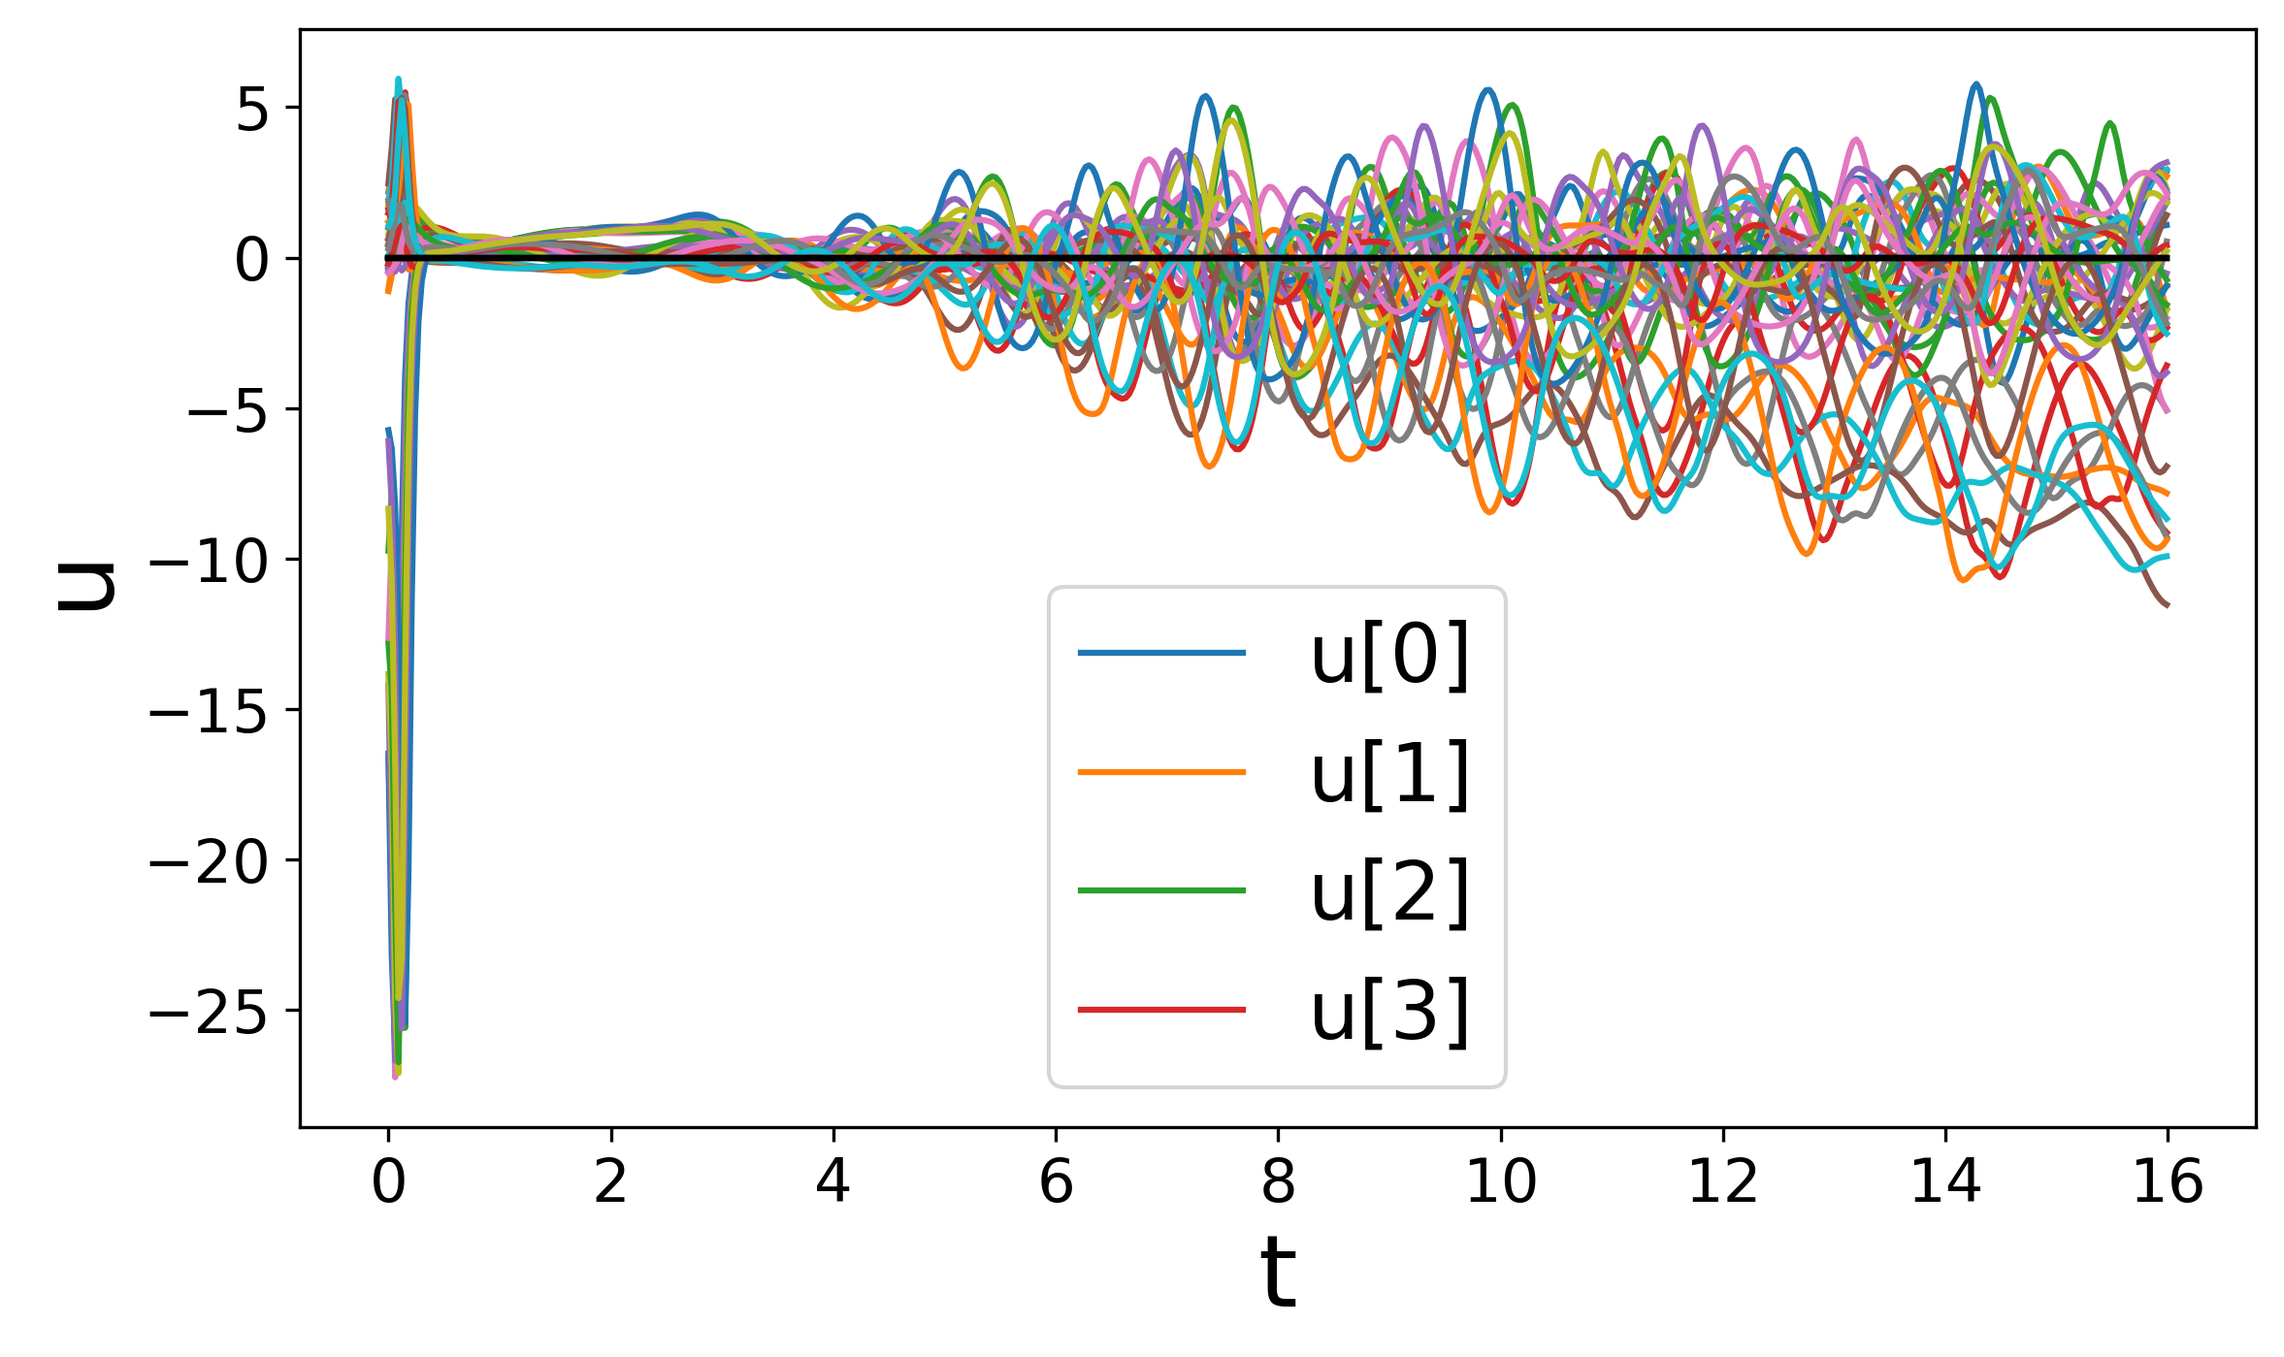
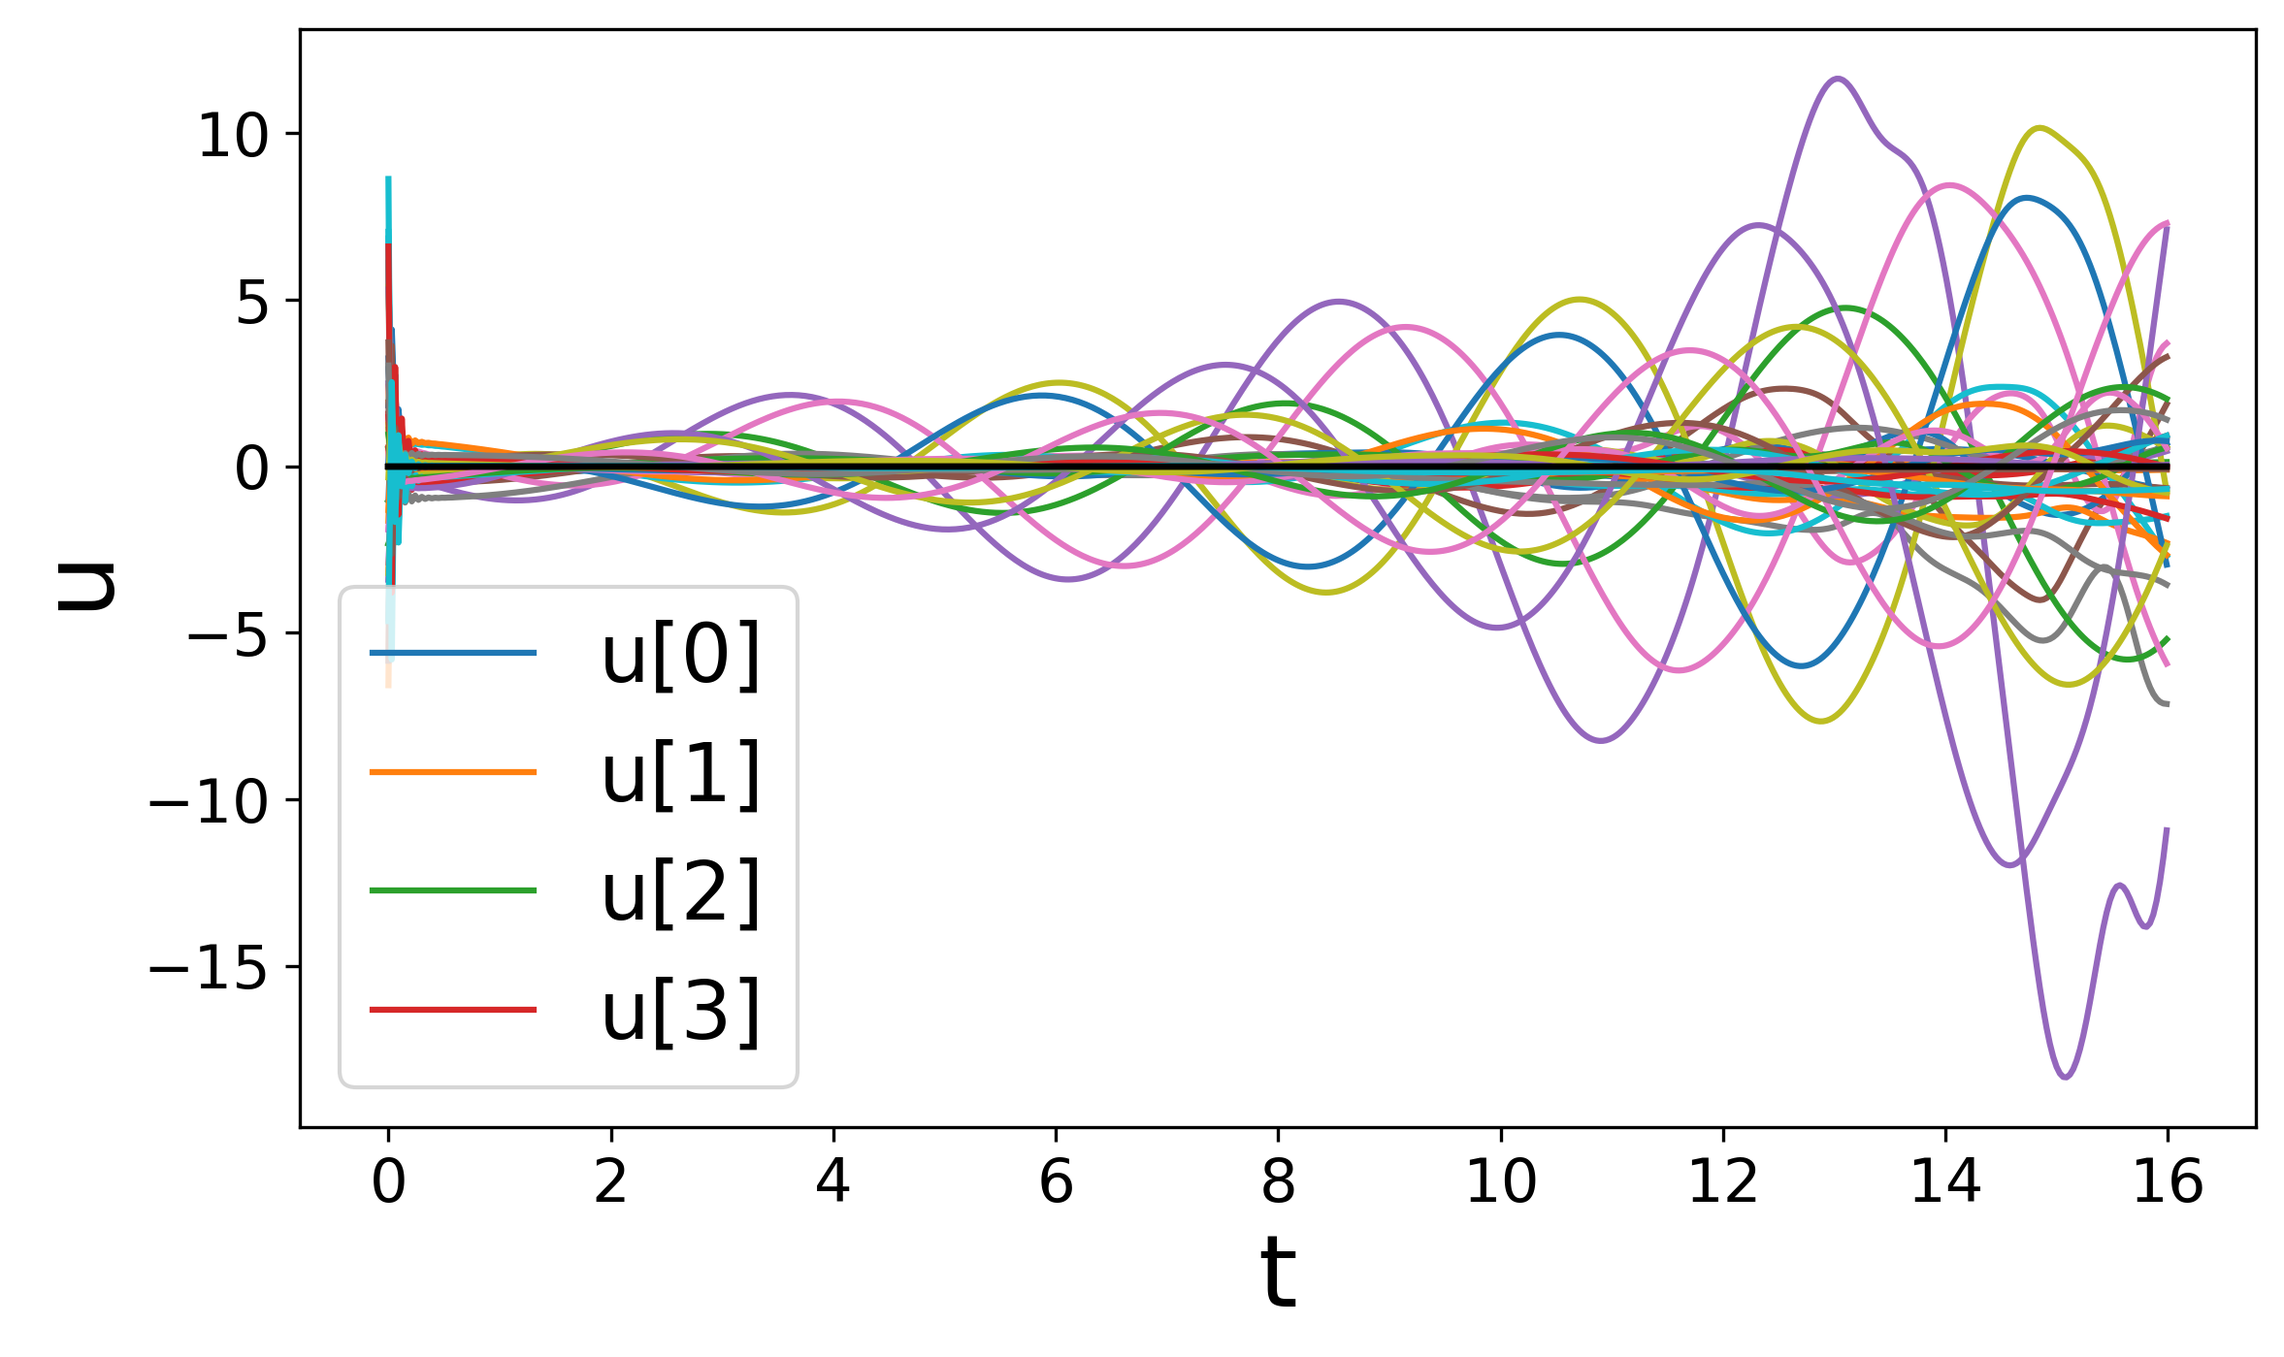
different model

diff --git a/systems/system_SLUNG_simplified.py b/systems/system_SLUNG_simplified.py
@@ -9,7 +9,6 @@ m_q = 1.63  # mass of the quadrotor
 
 # Add another function to get dynamics simplify f_func, B_func
 
-
 def f_func(x):
     # x: bs x n x 1
     # f: bs x n x 1
@@ -17,42 +16,47 @@ def f_func(x):
     # r_p_x, r_p_y, r_q_x, r_q_y, r_q_z, l, v_p_x, v_p_y, v_q_x, v_q_y, v_q_z, l_dot = [x[:,i,0] for i in range(num_dim_x)]
     r_q_x, r_q_y, r_q_z, r_p_x, r_p_y, l, v_p_x, v_p_y, v_q_x, v_q_y, v_q_z, l_dot = [x[:,i,0] for i in range(num_dim_x)]  # For state reversal
     
+    # Define r_p, v_p vector
+    r_p = torch.stack([r_p_x, r_p_y], dim=1).unsqueeze(-1)  # (bs, 2, 1)
+    v_p = torch.stack([v_p_x, v_p_y], dim=1).unsqueeze(-1)  # (bs, 2, 1)
+    r_p_T = r_p.transpose(1, 2)  # (bs, 1, 2)
+    v_p_T = v_p.transpose(1, 2)  # (bs, 1, 2)
+    
+    # Define v_q vector
+    v_q = torch.stack([v_q_x, v_q_y, v_q_z], dim=1).unsqueeze(-1) # (bs, 3, 1)
+    
+    # Define l, l_dot
+    l = l.view(-1, 1, 1)  # (bs, 1, 1)
+    l_dot = l_dot.view(-1, 1, 1)  # (bs, 1, 1)
+    
     f = torch.zeros(bs, num_dim_x, 1).type(x.type())
-    vel = torch.stack([v_p_x, v_p_y, v_q_x, v_q_y, v_q_z, l_dot], dim=1).unsqueeze(-1)  # (bs, 3, 1)
-    vel_r = torch.stack([v_q_x, v_q_y, v_q_z, v_p_x, v_p_y, l_dot], dim=1).unsqueeze(-1)  # for state reversal
+    vel = torch.cat([v_p, v_q, l_dot], dim=1)  # (bs, 3, 1)
+    vel_r = torch.cat([v_q, v_p, l_dot], dim=1)  # for state reversal
     f[:, 0:6, 0] = vel_r.squeeze(-1)
     
-    # Define v_p vector
-    v_p = torch.stack([v_p_x, v_p_y], dim=1).unsqueeze(-1)  # (bs, 2, 1)
-    
-    # Add variable for torch.sqrt(1-torch.bmm(r_p.transpose(1, 2), r_p))
-    # Add temp variable for B.T ...
-    
     # Define normal vector of cable
-    r_p = torch.stack([r_p_x, r_p_y], dim=1).unsqueeze(-1)  # (bs, 2, 1)
-    n = torch.cat([r_p, -torch.sqrt(1-torch.bmm(r_p.transpose(1, 2), r_p))], dim=1) # (bs, 3, 1)
+    Z = -torch.sqrt(1-torch.bmm(r_p_T, r_p))  # ENU frame
+    n = torch.cat([r_p, Z], dim=1)  # (bs, 3, 1)
+    n_T = n.transpose(1, 2)
     
     # Define B matrix for slung payload
-    I2 = torch.eye(2, device=x.device).repeat(bs, 1, 1) # shape (bs, 2, 2)
-    last_row = r_p.transpose(1, 2)/torch.sqrt(1-torch.bmm(r_p.transpose(1, 2), r_p))
-    B = torch.cat([I2, last_row], dim=1)
+    I2 = torch.eye(2).repeat(bs, 1, 1).type(x.type())
+    B = torch.cat([I2, -r_p_T/Z], dim=1)  # (bs, 3, 2)
+    B_T = B.transpose(1, 2)
     
     # Define B_dot matrix for slung payload
-    O2 = torch.zeros(bs, 2, 2).type(x.type())  # shape (bs, 2, 2)  
-    Z = -torch.sqrt(1-torch.bmm(r_p.transpose(1, 2), r_p))
-    r_p_T = r_p.transpose(1, 2)  # shape (bs, 1, 2)
-    v_p_T = v_p.transpose(1, 2)  # shape (bs, 1, 2)
+    O2 = torch.zeros(bs, 2, 2).type(x.type())
     B_dot = torch.cat([O2, -(Z ** 2 * v_p_T + torch.bmm(r_p_T, v_p) * r_p_T)/(Z ** 3)], dim=1)  # shape (bs, 3, 2)
     
     # Kane's method
     # Define M matrix for slung payload
     M = torch.zeros(bs, 6, 6).type(x.type())
-    M11 = m_p * (l ** 2).view(-1, 1, 1) * torch.bmm(B.transpose(1, 2), B)
-    M12 = m_p * l.view(-1, 1, 1) * B.transpose(1, 2)
+    M11 = m_p * (l ** 2) * torch.bmm(B_T, B)
+    M12 = m_p * l * B_T
     M13 = torch.zeros(bs, 2, 1).type(x.type())
-    M22 = (m_p + m_q) * torch.eye(3, device=x.device).repeat(bs, 1, 1)
+    M22 = (m_p + m_q) * torch.eye(3).repeat(bs, 1, 1).type(x.type())
     M23 = m_p * n
-    M33 = m_p * torch.tensor([1], device=x.device).repeat(bs, 1, 1)  # (bs, 1, 1)
+    M33 = m_p * torch.tensor([1]).repeat(bs, 1, 1).type(x.type())  # (bs, 1, 1)
      
     # Concactenate M matrix: (bs, 6, 6)
     M = torch.cat([
@@ -60,20 +64,16 @@ def f_func(x):
         torch.cat([M12.transpose(1, 2), M22, M23], dim=2),
         torch.cat([M13.transpose(1, 2), M23.transpose(1, 2), M33], dim=2)
     ], dim=1)
-
-    # Compute the inverse of M
-    # linalg.solve is more stable than torch.inverse
-    # M_inv = torch.linalg.solve(M, torch.eye(6, device=x.device).
-    
+   
     # Compute C matrix
     C = torch.zeros(bs, 6, 6).type(x.type())
-    C11 = (l ** 2).view(-1, 1, 1) * torch.bmm(B.transpose(1, 2), B_dot) + l_dot.view(-1, 1, 1) * l.view(-1, 1, 1) * torch.bmm(B.transpose(1, 2), B)
+    C11 = (l ** 2) * torch.bmm(B_T, B_dot) + l_dot * l * torch.bmm(B_T, B)
     C12 = torch.zeros(bs, 2, 3).type(x.type())
-    C13 = l.view(-1, 1, 1) * torch.bmm(torch.bmm(B.transpose(1, 2), B), v_p)
-    C21 = l.view(-1, 1, 1) * B_dot + B * l_dot.view(-1, 1, 1)
+    C13 = l * torch.bmm(torch.bmm(B_T, B), v_p)
+    C21 = l * B_dot + B * l_dot
     C22 = torch.zeros(bs, 3, 3).type(x.type())
     C23 = torch.bmm(B, v_p)
-    C31 = l.view(-1, 1, 1) * torch.bmm(n.transpose(1, 2), B_dot)
+    C31 = l * torch.bmm(n_T, B_dot)
     C32 = torch.zeros(bs, 1, 3).type(x.type())
     C33 = torch.zeros(bs, 1, 1).type(x.type())
     
@@ -85,17 +85,17 @@ def f_func(x):
     
     # Compute G matrix
     G = torch.zeros(bs, 6, 3).type(x.type())
-    G1 = m_p * l.view(-1, 1, 1) * B.transpose(1, 2)
+    G1 = m_p * l.view(-1, 1, 1) * B_T
     # G2 = (m_p + m_q) * torch.eye(3).repeat(bs, 1, 1).type(x.type())
     # G3 = m_p * n.transpose(1, 2)
     # Training for delta f and delta tau
     G2 = torch.zeros(bs, 3, 3).type(x.type())
     G3 = torch.zeros(bs, 1, 3).type(x.type())
     G = torch.cat([G1, G2, G3], dim=1)
-    g_I = torch.tensor([0, 0, -g], device=x.device).view(1, 3, 1).expand(bs, 3, 1)  # (bs, 3, 1)
+    g_I = torch.tensor([0, 0, -g]).view(1, 3, 1).expand(bs, 3, 1).type(x.type())  # (bs, 3, 1)
     F_g = torch.bmm(G, g_I)
     
-    f[:, 6:12, 0] = torch.linalg.solve(M, F_g - torch.bmm(C, vel)).squeeze(-1).squeeze(-1) # linalg.solve is more stable than torch.inverse
+    f[:, 6:12, 0] = torch.linalg.solve(M, F_g - torch.bmm(C, vel)).squeeze(-1)
     
     return f
 
@@ -109,37 +109,37 @@ def B_func(x):
     # r_p_x, r_p_y, r_q_x, r_q_y, r_q_z, l, v_p_x, v_p_y, v_q_x, v_q_y, v_q_z, l_dot = [x[:,i,0] for i in range(num_dim_x)]
     r_q_x, r_q_y, r_q_z, r_p_x, r_p_y, l, v_p_x, v_p_y, v_q_x, v_q_y, v_q_z, l_dot = [x[:,i,0] for i in range(num_dim_x)]  # For state reversal
     
-    # Define v_p vector
-    v_p = torch.stack([v_p_x, v_p_y], dim=1).unsqueeze(-1)  # (bs, 2, 1)
+    # Define r_p, v_p vector
+    r_p = torch.stack([r_p_x, r_p_y], dim=1).unsqueeze(-1)  # (bs, 2, 1)
+    r_p_T = r_p.transpose(1, 2)  # (bs, 1, 2)
+    
+    # Define l
+    l = l.view(-1, 1, 1)  # (bs, 1, 1)
     
     # Define normal vector of cable
-    r_p = torch.stack([r_p_x, r_p_y], dim=1).unsqueeze(-1)  # (bs, 2, 1)
-    n = torch.cat([r_p, -torch.sqrt(1-torch.bmm(r_p.transpose(1, 2), r_p))], dim=1) # (bs, 3, 1)
+    Z = -torch.sqrt(1-torch.bmm(r_p_T, r_p))  # ENU frame
+    n = torch.cat([r_p, Z], dim=1)  # (bs, 3, 1)
     
     # Define B matrix for slung payload
-    I2 = torch.eye(2, device=x.device).repeat(bs, 1, 1) # shape (bs, 2, 2)
-    r_p_row = r_p.view(bs, 1, 2)
-    last_row = r_p_row/torch.sqrt(1-torch.bmm(r_p.transpose(1, 2), r_p))
-    B = torch.cat([I2, last_row], dim=1)
-        
-    # Kane's method   
+    I2 = torch.eye(2).repeat(bs, 1, 1).type(x.type())
+    B = torch.cat([I2, -r_p_T/Z], dim=1)  # (bs, 3, 2)
+    B_T = B.transpose(1, 2)
+    
+    # Kane's method
     # Define M matrix for slung payload
     M = torch.zeros(bs, 6, 6).type(x.type())
-    M11 = m_p * (l ** 2).view(-1, 1, 1) * torch.bmm(B.transpose(1, 2), B)
-    M12 = m_p * l.view(-1, 1, 1) * B.transpose(1, 2)
+    M11 = m_p * (l ** 2) * torch.bmm(B_T, B)
+    M12 = m_p * l * B_T
     M13 = torch.zeros(bs, 2, 1).type(x.type())
-    M21 = m_p * l.view(-1, 1, 1) * B
-    M22 = (m_p + m_q) * torch.eye(3, device=x.device).repeat(bs, 1, 1)
+    M22 = (m_p + m_q) * torch.eye(3).repeat(bs, 1, 1).type(x.type())
     M23 = m_p * n
-    M31 = torch.zeros(bs, 1, 2).type(x.type())
-    M32 = m_p * n.transpose(1, 2)
-    M33 = torch.tensor([1], device=x.device).repeat(bs, 1, 1)  # (bs, 1, 1)
+    M33 = m_p * torch.tensor([1]).repeat(bs, 1, 1).type(x.type())  # (bs, 1, 1)
      
     # Concactenate M matrix: (bs, 6, 6)
     M = torch.cat([
         torch.cat([M11, M12, M13], dim=2),
-        torch.cat([M21, M22, M23], dim=2),
-        torch.cat([M31, M32, M33], dim=2)
+        torch.cat([M12.transpose(1, 2), M22, M23], dim=2),
+        torch.cat([M13.transpose(1, 2), M23.transpose(1, 2), M33], dim=2)
     ], dim=1)
     
 

diff --git a/configs/config_SLUNG_simplified.py b/configs/config_SLUNG_simplified.py
@@ -2,32 +2,32 @@ import numpy as np
 from utils import temp_seed
 
 # for training
-X_REF = np.array([0., 0., 0., 0., 0., 2, 0, 0, 0, 0, 0, 0]).reshape(-1,1)
+X_REF = np.array([0., 0., 0., 0., 0., 1.5, 0, 0, 1, 0, 0, 0]).reshape(-1,1)
 
-# X_MIN = np.array([-0.5, -0.5, -10., -10., -10., 1, -0.5, -0.5, -2.5, -2.5, -2.5, -2.5]).reshape(-1,1)
-# X_MAX = np.array([0.5, 0.5, 10., 10., 10., 3, 0.5, 0.5, 2.5, 2.5, 2.5, 2.5]).reshape(-1,1)
+# X_MIN = np.array([-0.4, -0.4, -10., -10., -10., 1, -0.5, -0.5, -2.5, -2.5, -2.5, -0.5]).reshape(-1,1)
+# X_MAX = np.array([0.4, 0.4, 10., 10., 10., 2, 0.5, 0.5, 2.5, 2.5, 2.5, 0.5]).reshape(-1,1)
 
-X_MIN = np.array([-10., -10., -10., -0.5, -0.5, 1, -0.5, -0.5, -2.5, -2.5, -2.5, -2.5]).reshape(-1,1)  # For state reversal
-X_MAX = np.array([10., 10., 10., 0.5, 0.5, 3, 0.5, 0.5, 2.5, 2.5, 2.5, 2.5]).reshape(-1,1)  # For state reversal
+X_MIN = np.array([-10., -10., -10., -0.4, -0.4, 1, -0.5, -0.5, -2.5 + 1, -2.5, -2.5, -0.5]).reshape(-1,1)  # For state reversal
+X_MAX = np.array([10., 10., 10., 0.4, 0.4, 2, 0.5, 0.5, 2.5 + 1, 2.5, 2.5, 0.5]).reshape(-1,1)  # For state reversal
 
-f_x_bound = 0.1
-f_y_bound = 0.1
-f_z_bound = 0.1
-tau_bound = 0.1
+f_x_bound = 1.
+f_y_bound = 1.
+f_z_bound = 1.
+tau_bound = 1.
 
 UREF_MIN = np.array([-f_x_bound, -f_y_bound, -f_z_bound, -tau_bound]).reshape(-1,1)
 UREF_MAX = np.array([f_x_bound, f_y_bound, f_z_bound, tau_bound]).reshape(-1,1)
 
 lim = 1
-# XE_MIN = np.array([-lim/10, -lim/10, -lim, -lim, -lim, -lim/5, -lim/10, -lim/10, -lim, -lim, -lim, -lim/5]).reshape(-1,1)
-# XE_MAX = np.array([lim/10, lim/10, lim, lim, lim, lim/5, lim/10, lim/10, lim, lim, lim, lim/5]).reshape(-1,1)
+# XE_MIN = np.array([-lim/5, -lim/5, -lim, -lim, -lim, -lim/2, -lim/5, -lim/5, -lim, -lim, -lim, -lim/5]).reshape(-1,1)
+# XE_MAX = np.array([lim/5, lim/5, lim, lim, lim, lim/2, lim/5, lim/5, lim, lim, lim, lim/5]).reshape(-1,1)
 
-XE_MIN = np.array([-lim, -lim, -lim, -lim/10, -lim/10, -lim/5, -lim/10, -lim/10, -lim, -lim, -lim, -lim/5]).reshape(-1,1)  # For state reversal
-XE_MAX = np.array([lim, lim, lim, lim/10, lim/10, lim/5, lim/10, lim/10, lim, lim, lim, lim/5]).reshape(-1,1)  # For state reversal
+XE_MIN = np.array([-lim, -lim, -lim, -lim/5, -lim/5, -lim/2, -lim/5, -lim/5, -lim, -lim, -lim, -lim/5]).reshape(-1,1)  # For state reversal
+XE_MAX = np.array([lim, lim, lim, lim/5, lim/5, lim/2, lim/5, lim/5, lim, lim, lim, lim/5]).reshape(-1,1)  # For state reversal
 
 # for sampling ref
-X_INIT_MIN = np.array([0., 0., 0., 0., 0., 2., 0., 0., 0., 0., 0., 0.])  # According to XREF
-X_INIT_MAX = np.array([0., 0., 0., 0., 0., 2., 0., 0., 0., 0., 0., 0.])  # According to XREF
+X_INIT_MIN = np.array([0., 0., 0., 0., 0., 1.5, 0., 0., 1., 0., 0., 0.])  # According to XREF ### 0.5!!!
+X_INIT_MAX = np.array([0., 0., 0., 0., 0., 1.5, 0., 0., 1., 0., 0., 0.])  # According to XREF
 
 # X_INIT_MIN = np.array([-0.2, -0.2, -0.5, -0.5, -0.5, 1.5, 0, 0, 0, 0, 0, 0])
 # X_INIT_MAX = np.array([0.2, 0.2, 0.5, 0.5, 0.5, 1.5, 0, 0, 0, 0, 0, 0])
@@ -35,11 +35,11 @@ X_INIT_MAX = np.array([0., 0., 0., 0., 0., 2., 0., 0., 0., 0., 0., 0.])  # Accor
 # X_INIT_MIN = np.array([-0.5, -0.5, -0.5, -0.2, -0.2, 1.5, 0, 0, 0, 0, 0, 0])  # For state reversal
 # X_INIT_MAX = np.array([0.5, 0.5, 0.5, 0.2, 0.2, 1.5, 0, 0, 0, 0, 0, 0])  # For state reversal
 
-# XE_INIT_MIN = np.array([-0.05, -0.05, -0.2, -0.2, -0.2, -0.1, -0.05, -0.05, -0.2, -0.2, -0.2, 0.1])
-# XE_INIT_MAX = np.array([0.05, 0.05, 0.2, 0.2, 0.2, 0.1, 0.05, 0.05, 0.2, 0.2, 0.2, 0.1])
+# XE_INIT_MIN = np.array([-0.05, -0.05, -0.2, -0.2, -0.2, -0.1, -0.05, -0.05, -0.2, -0.2, -0.2, -0.05])
+# XE_INIT_MAX = np.array([0.05, 0.05, 0.2, 0.2, 0.2, 0.1, 0.05, 0.05, 0.2, 0.2, 0.2, 0.05])
 
-XE_INIT_MIN = np.array([-0.2, -0.2, -0.2, -0.05, -0.05, -0.1, -0.05, -0.05, -0.2, -0.2, -0.2, 0.1])  # For state reversal
-XE_INIT_MAX = np.array([0.2, 0.2, 0.2, 0.05, 0.05, 0.1, 0.05, 0.05, 0.2, 0.2, 0.2, 0.1])  # For state reversal
+XE_INIT_MIN = np.array([-0.2, -0.2, -0.2, -0.05, -0.05, -0.1, -0.05, -0.05, -0.2, -0.2, -0.2, -0.05])  # For state reversal
+XE_INIT_MAX = np.array([0.2, 0.2, 0.2, 0.05, 0.05, 0.1, 0.05, 0.05, 0.2, 0.2, 0.2, 0.05])  # For state reversal
 
 time_bound = 16.
 time_step = 0.03

diff --git a/models/model_SLUNG_simplified.py b/models/model_SLUNG_simplified.py
@@ -32,25 +32,54 @@ class U_FUNC(nn.Module):
 
 def get_model(num_dim_x, num_dim_control, w_lb, use_cuda=False):
     dim = effective_dim_end - effective_dim_start
+    # model_Wbot = torch.nn.Sequential(
+    #     torch.nn.Linear(dim-num_dim_control, 128, bias=True),
+    #     torch.nn.Tanh(),
+    #     torch.nn.Linear(128, (num_dim_x-num_dim_control) ** 2, bias=False))
+
+    # model_W = torch.nn.Sequential(
+    #     torch.nn.Linear(dim, 128, bias=True),
+    #     torch.nn.Tanh(),
+    #     torch.nn.Linear(128, num_dim_x * num_dim_x, bias=False))
+
+    # c = 3 * num_dim_x
+    # model_u_w1 = torch.nn.Sequential(
+    #     torch.nn.Linear(2*dim, 128, bias=True),
+    #     torch.nn.Tanh(),
+    #     torch.nn.Linear(128, c*num_dim_x, bias=True))
+
+    # model_u_w2 = torch.nn.Sequential(
+    #     torch.nn.Linear(2*dim, 128, bias=True),
+    #     torch.nn.Tanh(),
+    #     torch.nn.Linear(128, num_dim_control*c, bias=True))
+    
     model_Wbot = torch.nn.Sequential(
-        torch.nn.Linear(dim-num_dim_control, 128, bias=True),
-        torch.nn.Tanh(),
+        torch.nn.Linear(dim-num_dim_control, 256, bias=True),
+        torch.nn.ReLU(),
+        torch.nn.Linear(256, 128, bias=True),
+        torch.nn.ReLU(),
         torch.nn.Linear(128, (num_dim_x-num_dim_control) ** 2, bias=False))
 
     model_W = torch.nn.Sequential(
-        torch.nn.Linear(dim, 128, bias=True),
-        torch.nn.Tanh(),
+        torch.nn.Linear(dim, 256, bias=True),
+        torch.nn.ReLU(),
+        torch.nn.Linear(256, 128, bias=True),
+        torch.nn.ReLU(),
         torch.nn.Linear(128, num_dim_x * num_dim_x, bias=False))
 
     c = 3 * num_dim_x
     model_u_w1 = torch.nn.Sequential(
-        torch.nn.Linear(2*dim, 128, bias=True),
-        torch.nn.Tanh(),
+        torch.nn.Linear(2*dim, 256, bias=True),
+        torch.nn.ReLU(),
+        torch.nn.Linear(256, 128, bias=True),
+        torch.nn.ReLU(),
         torch.nn.Linear(128, c*num_dim_x, bias=True))
 
     model_u_w2 = torch.nn.Sequential(
-        torch.nn.Linear(2*dim, 128, bias=True),
-        torch.nn.Tanh(),
+        torch.nn.Linear(2*dim, 256, bias=True),
+        torch.nn.ReLU(),
+        torch.nn.Linear(256, 128, bias=True),
+        torch.nn.ReLU(),
         torch.nn.Linear(128, num_dim_control*c, bias=True))
 
     if use_cuda:

diff --git a/main.py b/main.py
@@ -66,8 +66,8 @@ model_W, model_Wbot, model_u_w1, model_u_w2, W_func, u_func = get_model(num_dim_
 
 # constructing datasets
 def sample_xef():
-    # return (X_MAX-X_MIN) * np.random.rand(num_dim_x, 1) + X_MIN
-    return X_REF
+    return (X_MAX-X_MIN) * np.random.rand(num_dim_x, 1) + X_MIN
+    # return X_REF
 
 def sample_x(xref):
     xe = (XE_MAX-XE_MIN) * np.random.rand(num_dim_x, 1) + XE_MIN
@@ -171,7 +171,7 @@ def forward(x, xref, uref, _lambda, verbose=False, acc=False, detach=False):
     for i in range(num_dim_control):
         DBDx[:,:,:,i] = Jacobian(B[:,:,i].unsqueeze(-1), x)
 
-    _Bbot = Bbot_func(x)
+    _Bbot = Bbot_func(B)
     u = u_func(x, x - xref, uref) # u: bs x m x 1 # TODO: x - xref
     K = Jacobian(u, x)
 
